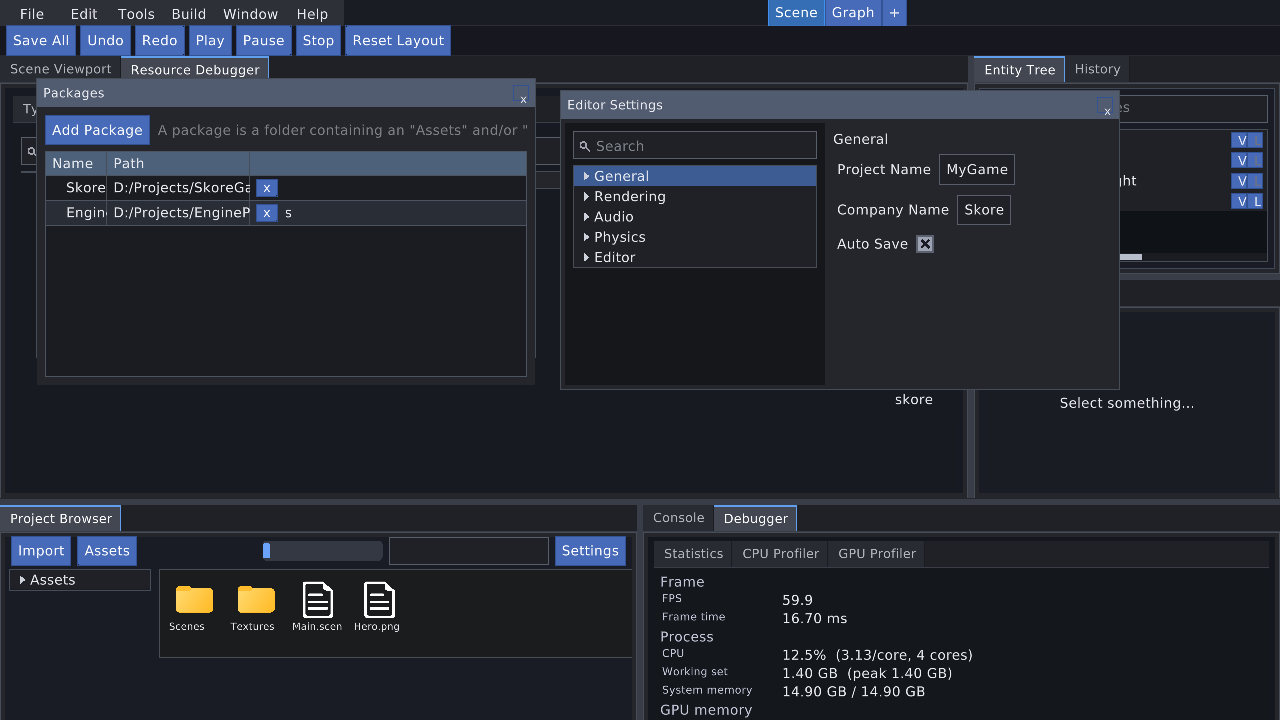
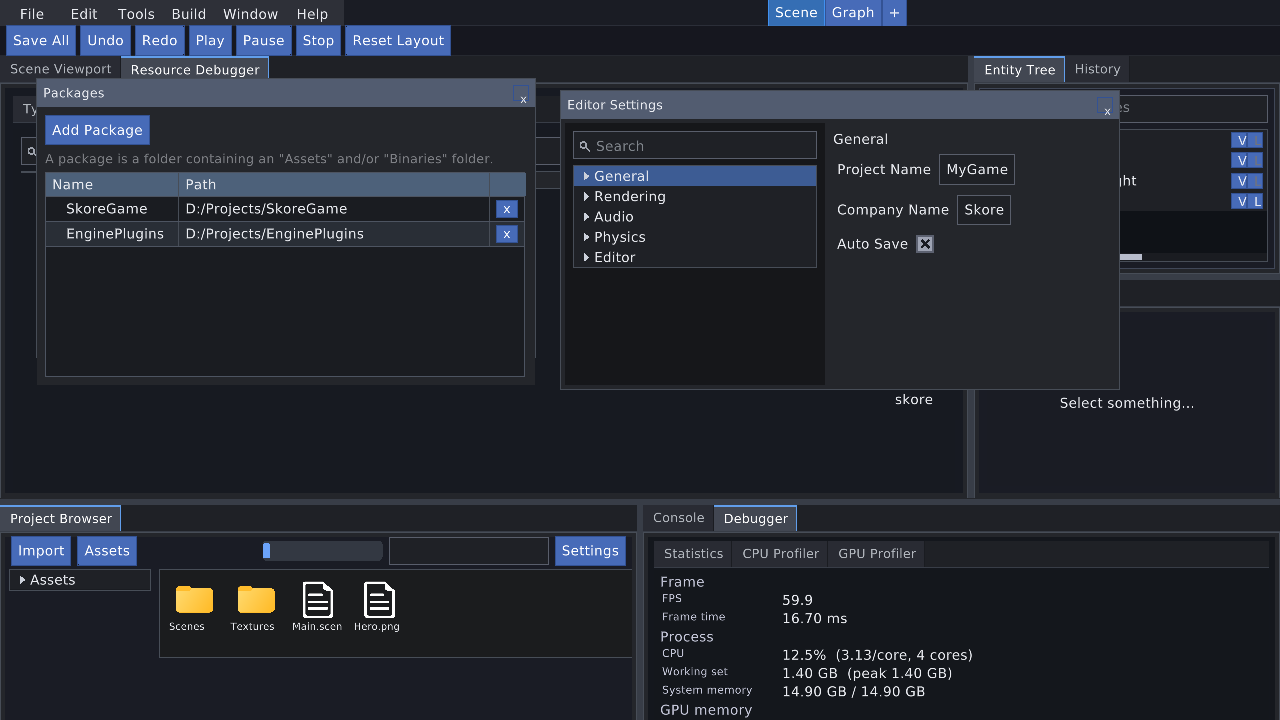
APX-387: fix Packages window clipping by sizing table columns from the real window width and moving the hint to its own…
Three Packages windows chrome defects from docs/editor/apx-377-vision-validation.md  frame 04  are fixed in editor/windows/packages_window.c:

1. Hint cut mid-quote: the 14px sentence   483px  can never share the toolbar row next to the  91px Add Package button inside the 500px window. The toolbar is now a column - Add Package on its own row, the hint on the full row below it at 13px  the editor default  with word-boundary wrapping, so the whole sentence renders on one line and degrades to word breaks instead of clipping.

2/3. Name and Path cells clipped  SkoreGame- Skore, D:/Projects/EnginePlugins left a stray 's' after the remove 'x' : the table was created with outer_width 0, so resolve_column_widths fell back to 3 x the 80px default  240px  for the avail width regardless of the actual  480px window body, squeezing Name to  61px and Path to  143px. The table now passes its real column-resolution width  500 - window borders - content padding - table borders = 480 , giving Name  133px / Path  311px / remove 36px - every mock basename and path fits its cell and stays clear of the remove button.
[…]

Changed region(s): [[0.0312, 0.1528, 0.4375, 0.3361]]

diff --git a/editor/windows/packages_window.c b/editor/windows/packages_window.c
@@ -30,6 +30,18 @@
 
 #define SK_EDITOR_PACKAGES_STATE_TYPE_ID SK_TYPE_ID("sk.editor.packages.state", 0x7c3d9e0f1a2b4c5dULL, 0x6e8f90a1b2c3d4e5ULL)
 
+/* Floating-window geometry (C++ ImGuiCenterWindow on-demand mock). Width/height
+ * are border-box; the editor-window class adds 1px borders on every side. */
+#define SK_EDITOR_PACKAGES_WIN_W 500.0f
+#define SK_EDITOR_PACKAGES_WIN_H 280.0f
+/* Column-resolution width for the packages table: the window's 500 border-box
+ * minus 1px window borders x2, packages.content padding 8px x2, and the
+ * table's own 1px borders x2 = 480. The stretch columns resolve from this
+ * real width; without it the table falls back to 3 x the 80px default column
+ * (240px), which squeezed Name to ~61px and Path to ~143px and clipped the
+ * mock basenames / paths (APX-387). */
+#define SK_EDITOR_PACKAGES_TABLE_W 480.0f
+
 /* ------------------------------------------------------------------ */
 /*  Internal types                                                    */
 /* ------------------------------------------------------------------ */
@@ -184,7 +196,7 @@ static void packages_rebuild_table(packages_state_t* state) {
 		(void)ui->node_destroy(ctx, state->table);
 	}
 	state->table = ui->widget_table(ctx, ui->find_by_id(ctx, "packages.content"), "packages.table", 3,
-									SK_UI_TABLE_FLAG_ROW_BG | SK_UI_TABLE_FLAG_BORDERS | SK_UI_TABLE_FLAG_SCROLL_Y, 0.0f, 0.0f);
+									SK_UI_TABLE_FLAG_ROW_BG | SK_UI_TABLE_FLAG_BORDERS | SK_UI_TABLE_FLAG_SCROLL_Y, SK_EDITOR_PACKAGES_TABLE_W, 0.0f);
 	if (!sk_ui_node_is_valid(state->table)) {
 		return;
 	}
@@ -197,6 +209,8 @@ static void packages_rebuild_table(packages_state_t* state) {
 		sk_ui_node_t cell;
 		sk_ui_node_t btn;
 		char id[64];
+		char name_id[48];
+		char path_id[48];
 		sk_ui_node_callbacks_t cbs;
 		char name[SK_EDITOR_PACKAGES_PATH_CAP];
 
@@ -205,11 +219,13 @@ static void packages_rebuild_table(packages_state_t* state) {
 		(void)ui->table_next_column(ctx, state->table);
 		cell = ui->table_current_cell(ctx, state->table);
 		packages_basename(state->paths[i], name, sizeof(name));
-		(void)ui->widget_label(ctx, cell, name, NULL);
+		(void)snprintf(name_id, sizeof(name_id), "packages.name.%u", i);
+		(void)ui->widget_label(ctx, cell, name, name_id);
 
 		(void)ui->table_next_column(ctx, state->table);
 		cell = ui->table_current_cell(ctx, state->table);
-		(void)ui->widget_label(ctx, cell, state->paths[i], NULL);
+		(void)snprintf(path_id, sizeof(path_id), "packages.path.%u", i);
+		(void)ui->widget_label(ctx, cell, state->paths[i], path_id);
 
 		(void)ui->table_next_column(ctx, state->table);
 		cell = ui->table_current_cell(ctx, state->table);
@@ -248,6 +264,7 @@ static void packages_build_ui(packages_state_t* state, const sk_ui_api_t* ui, sk
 	sk_ui_node_t content;
 	sk_ui_node_t toolbar;
 	sk_ui_node_t btn;
+	sk_ui_node_t hint;
 	sk_ui_node_callbacks_t cbs;
 
 	state->ui = ui;
@@ -262,8 +279,8 @@ static void packages_build_ui(packages_state_t* state, const sk_ui_api_t* ui, sk
 	p.layout.position = SK_UI_POSITION_ABSOLUTE;
 	p.layout.left = sk_ui_pt(36.0f);
 	p.layout.top = sk_ui_pt(78.0f);
-	p.layout.width = sk_ui_pt(500.0f);
-	p.layout.height = sk_ui_pt(280.0f);
+	p.layout.width = sk_ui_pt(SK_EDITOR_PACKAGES_WIN_W);
+	p.layout.height = sk_ui_pt(SK_EDITOR_PACKAGES_WIN_H);
 	(void)ui->node_set_inline_style(ctx, state->win, &p);
 
 	content = ui->editor_window_content(ctx, state->win);
@@ -287,13 +304,19 @@ static void packages_build_ui(packages_state_t* state, const sk_ui_api_t* ui, sk
 	/* Give the content a stable id so the table rebuild can find it. */
 	(void)ui->node_set_id(ctx, content, "packages.content");
 
-	/* Toolbar: Add Package button + hint. */
+	/* Toolbar: Add Package button on its own row, hint sentence below it.
+	 * At 14px the hint sentence measures ~483px — wider than the ~482px
+	 * content row even before the button, so it was cut mid-quote on the old
+	 * single row (APX-387). Make the toolbar a column, give the hint the full
+	 * row, and drop it to 13px (the editor default) so the whole sentence
+	 * renders on one line at the 500px window; wrap keeps it degrading to
+	 * word breaks on a narrower host instead of clipping. */
 	toolbar = ui->widget_view(ctx, content, "packages.toolbar");
 	memset(&p, 0, sizeof(p));
-	p.mask = SK_UI_SP_FLEX_DIRECTION | SK_UI_SP_ALIGN_ITEMS | SK_UI_SP_COLUMN_GAP | SK_UI_SP_WIDTH;
-	p.layout.flex_direction = SK_UI_FLEX_ROW;
-	p.layout.align_items = SK_UI_ALIGN_CENTER;
-	p.layout.column_gap = 8.0f;
+	p.mask = SK_UI_SP_FLEX_DIRECTION | SK_UI_SP_ALIGN_ITEMS | SK_UI_SP_ROW_GAP | SK_UI_SP_WIDTH;
+	p.layout.flex_direction = SK_UI_FLEX_COLUMN;
+	p.layout.align_items = SK_UI_ALIGN_FLEX_START;
+	p.layout.row_gap = 6.0f;
 	p.layout.width = sk_ui_percent(100.0f);
 	(void)ui->node_set_inline_style(ctx, toolbar, &p);
 
@@ -304,7 +327,16 @@ static void packages_build_ui(packages_state_t* state, const sk_ui_api_t* ui, sk
 		cbs.user = state;
 		(void)ui->node_set_callbacks(ctx, btn, &cbs);
 	}
-	(void)ui->widget_text_disabled(ctx, toolbar, "A package is a folder containing an \"Assets\" and/or \"Binaries\" folder.", "packages.hint");
+	hint = ui->widget_text_disabled(ctx, toolbar, "A package is a folder containing an \"Assets\" and/or \"Binaries\" folder.", "packages.hint");
+	if (sk_ui_node_is_valid(hint)) {
+		memset(&p, 0, sizeof(p));
+		p.mask = SK_UI_SP_FONT_SIZE | SK_UI_SP_WIDTH | SK_UI_SP_FLEX_SHRINK;
+		p.font_size = 13.0f;
+		p.layout.width = sk_ui_percent(100.0f);
+		p.layout.flex_shrink = 0.0f;
+		(void)ui->node_merge_inline_style(ctx, hint, &p);
+		(void)ui->node_set_prop_i32(ctx, hint, "wrap", 1);
+	}
 
 	packages_rebuild_table(state);
 	state->last_synced_revision = state->count;
@@ -530,7 +562,43 @@ void sk_editor_packages_shutdown(sk_app_context_t* app_context, const sk_app_api
 #ifdef SK_TESTS
 
 #include "editor_api.h"
+#include "filesystem.h"
+#include "path.h"
+#include "skore_test_font_ttf.h"
 #include "test.h"
+
+static i32 packages_test_plugin_path(const_chr_t name, char* out, u32 cap) {
+	const sk_filesystem_api_t* fs = sk_test_filesystem_table();
+	char base[SK_FS_PATH_MAX];
+	char plugins[SK_FS_PATH_MAX];
+	if (fs->app_folder(base, (u32)sizeof(base)) != 0 || base[0] == '\0') {
+		if (fs->current_dir(base, (u32)sizeof(base)) != 0) {
+			return -1;
+		}
+	}
+	if (sk_path_join(sk_str_view_cstr(base), sk_str_view_cstr("plugins"), plugins, (u32)sizeof(plugins)) < 0) {
+		return -1;
+	}
+	if (sk_path_join(sk_str_view_cstr(plugins), sk_str_view_cstr(name), out, cap) < 0) {
+		return -1;
+	}
+	return 0;
+}
+
+static const sk_ui_api_t* packages_test_load_ui(sk_app_context_t* app_ctx, const sk_app_api_t* app_api) {
+	char path[SK_FS_PATH_MAX];
+#if defined(_WIN32)
+	const_chr_t name = "sk-ui.dll";
+#elif defined(__APPLE__)
+	const_chr_t name = "sk-ui.dylib";
+#else
+	const_chr_t name = "sk-ui.so";
+#endif
+	if (packages_test_plugin_path(name, path, (u32)sizeof(path)) == 0) {
+		(void)app_api->load_plugin(app_ctx, path);
+	}
+	return (const sk_ui_api_t*)app_api->get_api(app_ctx, SK_UI_API_TYPE_ID);
+}
 
 /* Ops-table path (no ui): seeded mock list, add/remove/clear and the
  * Add Package pending flag. */
@@ -588,6 +656,151 @@ SK_TEST(editor_packages_window_ops_mock_list) {
 
 	sk_editor_packages_shutdown(app, boot.api);
 	TEST_ASSERT_NULL(sk_editor_packages_ops(app, boot.api));
+	sk_app_shutdown(app);
+}
+
+/* ui-hosted path (APX-387): the floating Packages window's toolbar hint
+ * sentence renders in full on its own row below Add Package, and every
+ * Name / Path label fits inside its table cell without overlapping the
+ * remove button. Laid out at 1280x720 with the host fonts bound (mirrors
+ * sk_editor_shell_frame), so text measures with real glyph advances. */
+SK_TEST(editor_packages_window_ui_table_and_hint) {
+	static const char hint_text[] = "A package is a folder containing an \"Assets\" and/or \"Binaries\" folder.";
+	sk_app_boot_t boot = sk_app_init(0, NULL);
+	sk_app_context_t* app = boot.context;
+	const sk_editor_api_t* editor;
+	const sk_ui_api_t* ui;
+	const sk_editor_packages_ops_t* ops;
+	sk_ui_context_t* ctx;
+	sk_editor_workspace_t* ws;
+	sk_editor_window_t* window;
+	sk_ui_font_system_t* lfonts;
+	sk_ui_font_t* lfont;
+	f32 hint_w = 0.0f, hint_h = 0.0f;
+	sk_ui_rect_t win_r, hint_r, add_r, remove_r;
+	i32 open = 1;
+	u32 i;
+
+	TEST_ASSERT_NOT_NULL(app);
+	sk_editor_bind_tables(app, boot.api);
+	editor = (const sk_editor_api_t*)boot.api->get_api(app, SK_EDITOR_API_TYPE_ID);
+	TEST_ASSERT_NOT_NULL(editor);
+
+	ui = packages_test_load_ui(app, boot.api);
+	if (ui == NULL) {
+		/* Plugin not built/copied next to tests — skip rather than fail CI. */
+		sk_app_shutdown(app);
+		TEST_IGNORE_MESSAGE("sk-ui plugin not available");
+		return;
+	}
+	TEST_ASSERT_EQUAL_INT(0, ui->init());
+	ctx = ui->context_create(NULL);
+	TEST_ASSERT_NOT_NULL(ctx);
+
+	sk_editor_workspace_register_impls(app, boot.api);
+	sk_editor_packages_register(app, boot.api);
+
+	/* Host the floating window on the workspace's dock context root. */
+	ws = editor->workspace_create(app, boot.api, SK_EDITOR_WORKSPACE_SCENE);
+	TEST_ASSERT_NOT_NULL(ws);
+	sk_editor_workspace_set_dock_context(ws, ctx);
+	sk_editor_workspace_switch(ws);
+	editor->dockspace_init(ws);
+
+	ops = sk_editor_packages_ops(app, boot.api);
+	TEST_ASSERT_NOT_NULL(ops);
+	window = ops->open(app, boot.api);
+	TEST_ASSERT_NOT_NULL(window);
+	TEST_ASSERT_EQUAL_PTR(window, editor->window_by_type(app, boot.api, SK_EDITOR_WINDOW_PACKAGES));
+	TEST_ASSERT_EQUAL_UINT(2u, ops->get_package_count(window));
+
+	/* Draw builds the floating chrome + table. */
+	window->draw(window, &open);
+	TEST_ASSERT_EQUAL_INT(1, open);
+	TEST_ASSERT_TRUE(sk_ui_node_is_valid(ui->query_by_test_id(ctx, SK_UI_NODE_INVALID, "packages.hint")));
+	TEST_ASSERT_TRUE(sk_ui_node_is_valid(ui->query_by_test_id(ctx, SK_UI_NODE_INVALID, "packages.add")));
+	TEST_ASSERT_TRUE(sk_ui_node_is_valid(ui->query_by_test_id(ctx, SK_UI_NODE_INVALID, "packages.table")));
+	TEST_ASSERT_TRUE(sk_ui_node_is_valid(ui->query_by_test_id(ctx, SK_UI_NODE_INVALID, "packages.remove.0")));
+
+	/* Bind the layout fonts and resolve + lay out at 1280x720. */
+	lfonts = ui->font_system_create(NULL);
+	TEST_ASSERT_NOT_NULL(lfonts);
+	lfont = ui->font_load_memory(lfonts, skore_test_font_ttf, (u32)sizeof(skore_test_font_ttf));
+	TEST_ASSERT_NOT_NULL(lfont);
+	(void)ui->font_msdf_bake(lfont);
+	TEST_ASSERT_NOT_NULL(ui->set_layout_fonts);
+	ui->set_layout_fonts(ctx, lfonts, lfont);
+	window->draw(window, &open);
+	TEST_ASSERT_EQUAL_INT(0, ui->style_resolve(ctx));
+	TEST_ASSERT_EQUAL_INT(0, ui->layout(ctx, 1280.0f, 720.0f));
+
+	/* Hint sentence: measured real advance must be available on the label
+	 * box, on a single line, below the Add Package button, inside the window. */
+	TEST_ASSERT_EQUAL_INT(0, ui->font_measure_text(lfonts, lfont, 13u, hint_text, &hint_w, &hint_h));
+	TEST_ASSERT_TRUE(hint_w > 0.0f);
+	TEST_ASSERT_EQUAL_INT(0, ui->node_get_abs_rect(ctx, ui->query_by_test_id(ctx, SK_UI_NODE_INVALID, "packages.hint"), &hint_r, NULL));
+	TEST_ASSERT_EQUAL_INT(0, ui->node_get_abs_rect(ctx, ui->query_by_test_id(ctx, SK_UI_NODE_INVALID, "packages.add"), &add_r, NULL));
+	TEST_ASSERT_EQUAL_INT(0, ui->node_get_abs_rect(ctx, ui->query_by_test_id(ctx, SK_UI_NODE_INVALID, "sk.editor_window.packages"), &win_r, NULL));
+	TEST_ASSERT_TRUE(hint_r.width >= hint_w - 1.0f);			 /* whole sentence fits on the row */
+	TEST_ASSERT_TRUE(hint_r.height <= hint_h + 0.5f);			 /* one line (no mid-sentence wrap) */
+	TEST_ASSERT_TRUE(hint_r.y >= add_r.y + add_r.height - 0.5f); /* its own row below the button */
+	TEST_ASSERT_TRUE(hint_r.x >= win_r.x - 0.5f);
+	TEST_ASSERT_TRUE(hint_r.x + hint_r.width <= win_r.x + win_r.width + 0.5f);
+
+	/* Every Name / Path label fits inside its cell, stays clear of the
+	 * remove-button column, and is one line tall. */
+	for (i = 0u; i < 2u; ++i) {
+		char nameid[40], pathid[40], cellname[48], cellpath[48], cellrm[48];
+		sk_ui_rect_t name_cell, path_cell, rm_cell, name_lbl, path_lbl;
+		sk_ui_node_t node;
+
+		(void)snprintf(nameid, sizeof(nameid), "packages.name.%u", i);
+		(void)snprintf(pathid, sizeof(pathid), "packages.path.%u", i);
+		(void)snprintf(cellname, sizeof(cellname), "packages.table/c%u-0", i + 1u);
+		(void)snprintf(cellpath, sizeof(cellpath), "packages.table/c%u-1", i + 1u);
+		(void)snprintf(cellrm, sizeof(cellrm), "packages.table/c%u-2", i + 1u);
+		node = ui->query_by_test_id(ctx, SK_UI_NODE_INVALID, cellname);
+		TEST_ASSERT_EQUAL_INT(0, ui->node_get_abs_rect(ctx, node, &name_cell, NULL));
+		node = ui->query_by_test_id(ctx, SK_UI_NODE_INVALID, cellpath);
+		TEST_ASSERT_EQUAL_INT(0, ui->node_get_abs_rect(ctx, node, &path_cell, NULL));
+		node = ui->query_by_test_id(ctx, SK_UI_NODE_INVALID, cellrm);
+		TEST_ASSERT_EQUAL_INT(0, ui->node_get_abs_rect(ctx, node, &rm_cell, NULL));
+		node = ui->query_by_test_id(ctx, SK_UI_NODE_INVALID, nameid);
+		TEST_ASSERT_EQUAL_INT(0, ui->node_get_abs_rect(ctx, node, &name_lbl, NULL));
+		node = ui->query_by_test_id(ctx, SK_UI_NODE_INVALID, pathid);
+		TEST_ASSERT_EQUAL_INT(0, ui->node_get_abs_rect(ctx, node, &path_lbl, NULL));
+
+		/* Name label fully inside its cell and one line tall (no 'Skore' clip). */
+		TEST_ASSERT_TRUE(name_lbl.x >= name_cell.x - 0.5f);
+		TEST_ASSERT_TRUE(name_lbl.x + name_lbl.width <= name_cell.x + name_cell.width + 0.5f);
+		TEST_ASSERT_TRUE(name_lbl.y >= name_cell.y - 0.5f);
+		TEST_ASSERT_TRUE(name_lbl.y + name_lbl.height <= name_cell.y + name_cell.height + 0.5f);
+		TEST_ASSERT_TRUE(name_lbl.height < 20.0f);
+
+		/* Path label fully inside its cell (no 'D:/Projects/SkoreGa' clip) and
+		 * clear of the remove-button column (no 'x' + stray 's' overlap). */
+		TEST_ASSERT_TRUE(path_lbl.x >= path_cell.x - 0.5f);
+		TEST_ASSERT_TRUE(path_lbl.x + path_lbl.width <= path_cell.x + path_cell.width + 0.5f);
+		TEST_ASSERT_TRUE(path_lbl.x + path_lbl.width <= rm_cell.x + 0.5f);
+		TEST_ASSERT_TRUE(path_lbl.height < 20.0f);
+
+		/* The remove glyph button sits inside its fixed 36px column. */
+		(void)snprintf(nameid, sizeof(nameid), "packages.remove.%u", i);
+		node = ui->query_by_test_id(ctx, SK_UI_NODE_INVALID, nameid);
+		TEST_ASSERT_TRUE(sk_ui_node_is_valid(node));
+		TEST_ASSERT_EQUAL_INT(0, ui->node_get_abs_rect(ctx, node, &remove_r, NULL));
+		TEST_ASSERT_TRUE(remove_r.x >= rm_cell.x - 0.5f);
+		TEST_ASSERT_TRUE(remove_r.x + remove_r.width <= rm_cell.x + rm_cell.width + 0.5f);
+	}
+
+	ui->set_layout_fonts(ctx, NULL, NULL);
+	ui->font_system_destroy(lfonts);
+	window = editor->window_by_type(app, boot.api, SK_EDITOR_WINDOW_PACKAGES);
+	if (window != NULL) {
+		editor->window_close(app, boot.api, window);
+	}
+	editor->workspace_destroy(ws);
+	sk_editor_packages_shutdown(app, boot.api);
 	sk_app_shutdown(app);
 }
 

diff --git a/docs/editor/apx-377-vision-validation.md b/docs/editor/apx-377-vision-validation.md
@@ -59,7 +59,7 @@ C++ InitDockSpace zones used as the layout oracle (manifest §1 / `editor_window
 atlas, Scene placeholder, and mock window bodies read as the C++ editor.
 
 The three chrome defects this wave targeted are gone on the new frames (see
-[Chrome-fix confirmation](#chrome-fix-confirmation-apx-382--383--384)). Other
+[Chrome-fix confirmation](#chrome-fix-confirmation-apx-382--383--384--387)). Other
 migrated chrome still clips or overlaps; those are listed with `file:line`
 below and are **not** accepted.
 
@@ -209,8 +209,9 @@ model, and restored Scene.
 Opened through `sk_editor_shell_open_window` (the same path as the Window
 menu items):
 
-- **Packages** — floating window, Add Package, Name/Path table of the two
-  seeded mock folders (cells clip; see remaining sweep).
+- **Packages** — floating window, Add Package + hint on separate rows, \
+  Name/Path table of the two seeded mock folders (see \
+  [Chrome-fix confirmation](#chrome-fix-confirmation-apx-382--383--384--387)).
 - **Editor Settings** — floating window, left tree (General / Rendering /
   Audio / Physics / Editor), right pane (Project Name, Company Name, Auto Save).
 - **Resource Debugger** — Center tab next to Scene Viewport (Types list
@@ -218,13 +219,16 @@ menu items):
 
 ---
 
-## Chrome-fix confirmation (APX-382 / 383 / 384)
+## Chrome-fix confirmation (APX-382 / 383 / 384 / 387)
 
 Judged on the recaptured 1280×720 frames (01 / 03 for Scene chrome; Console
 labels also on 02).
 
 | Defect this wave fixed | Frame | Verdict |
 | --- | --- | --- |
+| Packages window hint clipped mid-quote (`"Binaries" folder.` hidden) | 04 | **Fixed.** The toolbar is now a column: Add Package on its own row and the hint sentence below it at 13px, full row, wrapping — the whole sentence renders on one line inside the 500px window. |
+| Packages Name cells clip `SkoreGame`→`Skore`, `EnginePlugins`→`Engin` | 04 | **Fixed.** The table now sizes its stretch columns from the real ~480px window width instead of the 3×80px default (240px), so the 0.30/0.70 Name/Path split gives ~133px/311px and every basename/path fits its cell. |
+| Packages Path cells clip + overlap the remove `x` (leftover `s`) | 04 | **Fixed.** Path (311px) holds both mock paths clear of the 36px remove column; no glyph paints over the button. |
 | Console severity label wraps mid-word (`Debu g`, `War n`) | 01, 02, 03 | **Fixed.** `Trace Debug Info Warn Error Fatal` are whole words on one toolbar row with Clear / Collapse / Auto-scroll. |
 | Scene Viewport tool button renders as `...` | 01, 03 | **Fixed.** The Grid–Play slot is `Scn`. The full row is `Sel Move Rot Scl Glo Snap Grid Scn Play Stop 2D 3D Vol Cam Opts`. No ellipsis glyph. |
 | Entity Tree search hint is clipped | 01, 03 | **Fixed.** Hint `"Search entities"` (`entity_tree_window.c:1810`) is fully inside the input, including the `g`/`y` descenders. |
@@ -238,9 +242,6 @@ cited at the chrome that emits the string or sizes the box.
 
 | Frame | What is wrong | Source |
 | --- | --- | --- |
-| 04 | Packages hint is cut mid-quote: visible `A package is a folder containing an "Assets" and/or "`; `"Binaries" folder.` never appears. | `editor/windows/packages_window.c:307` (`widget_text_disabled` of the full sentence) inside a 500×280 window (`:265`–`:266`) with a single non-wrapping toolbar row (`:291`–`:298`). |
-| 04 | Packages Name cells clip the basename: `SkoreGame` → `Skore`, `EnginePlugins` → `Engin`. | `editor/windows/packages_window.c:208` (`widget_label` of `packages_basename`) in the 0.30 stretch Name column (`:191`). |
-| 04 | Packages Path cells clip and overlap the remove button: `D:/Projects/SkoreGame` reads `D:/Projects/SkoreGa` then `x`; `D:/Projects/EnginePlugins` reads `D:/Projects/EngineP` then `x` then a leftover `s`. | `editor/windows/packages_window.c:212` (path `widget_label`), `:217` (`widget_small_button` `"x"`), columns `:192`–`:193` (Path 0.70 stretch + 36px fixed). |
 | 01, 02, 03 | Project Browser tile caption `Main.scene` clips to `Main.scen`. `Scenes` / `Textures` / `Hero.png` are intact. | Seed name `editor/windows/project_browser_window.c:269`; grid host `:1696`. Caption is no-wrap + clip-children at `plugins/ui/content_item.c:410`–`:417` (`max_width` = thumb − pad). |
 | 04 | Debugger Statistics `Dedicated (VRAM)` value row is clipped off the bottom of the BottomRight leaf. Visible last line is the `GPU memory` section header. | Header + row `editor/windows/debugger_window.c:360`–`:363`; body is a non-scroll `content_host` at 100% height (`:654`–`:664`) filled by `dgb_build_statistics` (`:624`) with `flex_shrink 0` stat rows (`:264`–`:275`). |
 | 01, 02, 03 | Console WARN line is clipped at the panel edge (`…mapped via Clay floati`). Toolbar chrome is intact; this is the log body. | `editor/windows/console_window.c:369` (`widget_label` of the full line), `:374` (`label_set_wrap(..., 0)`), `:321` (width 100%). |
